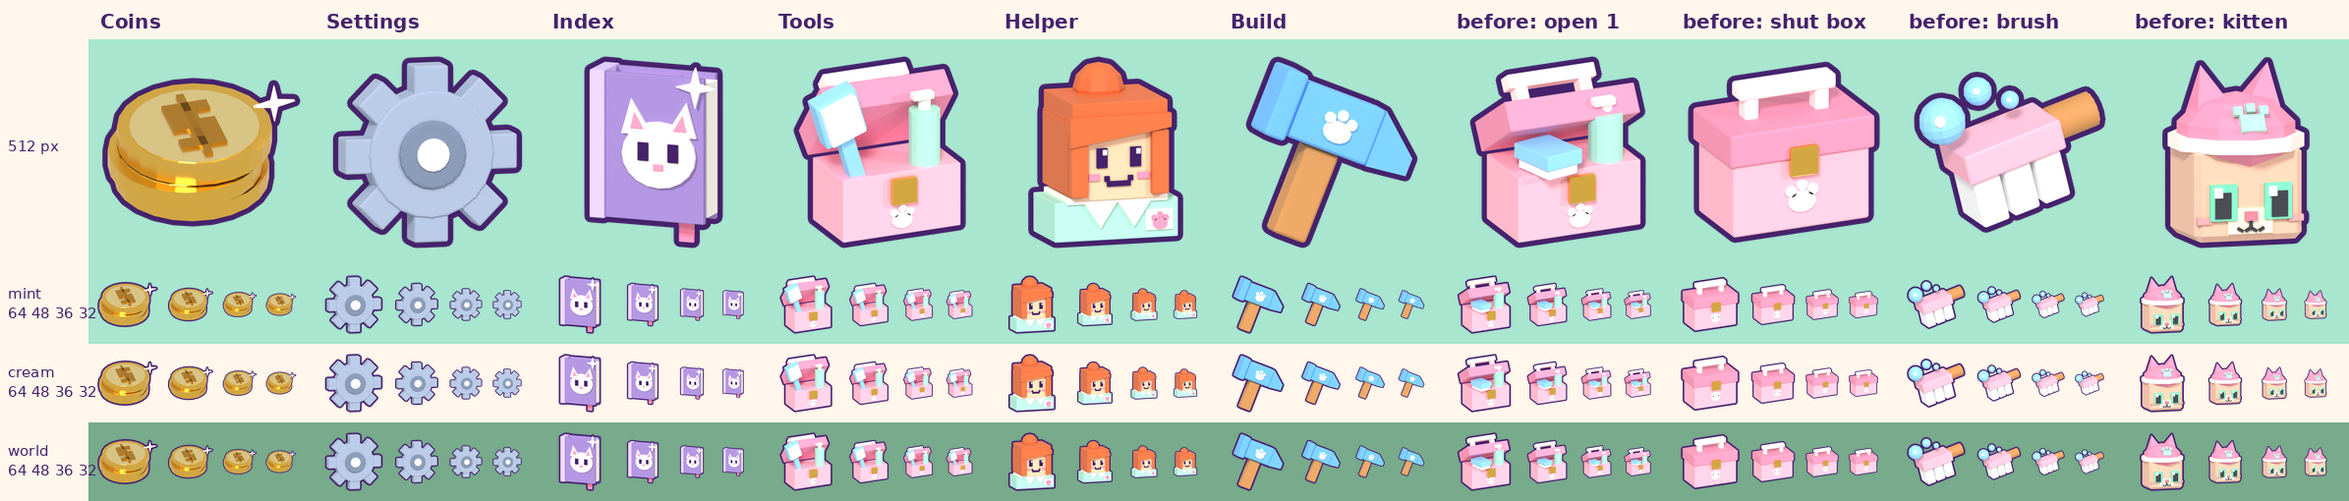
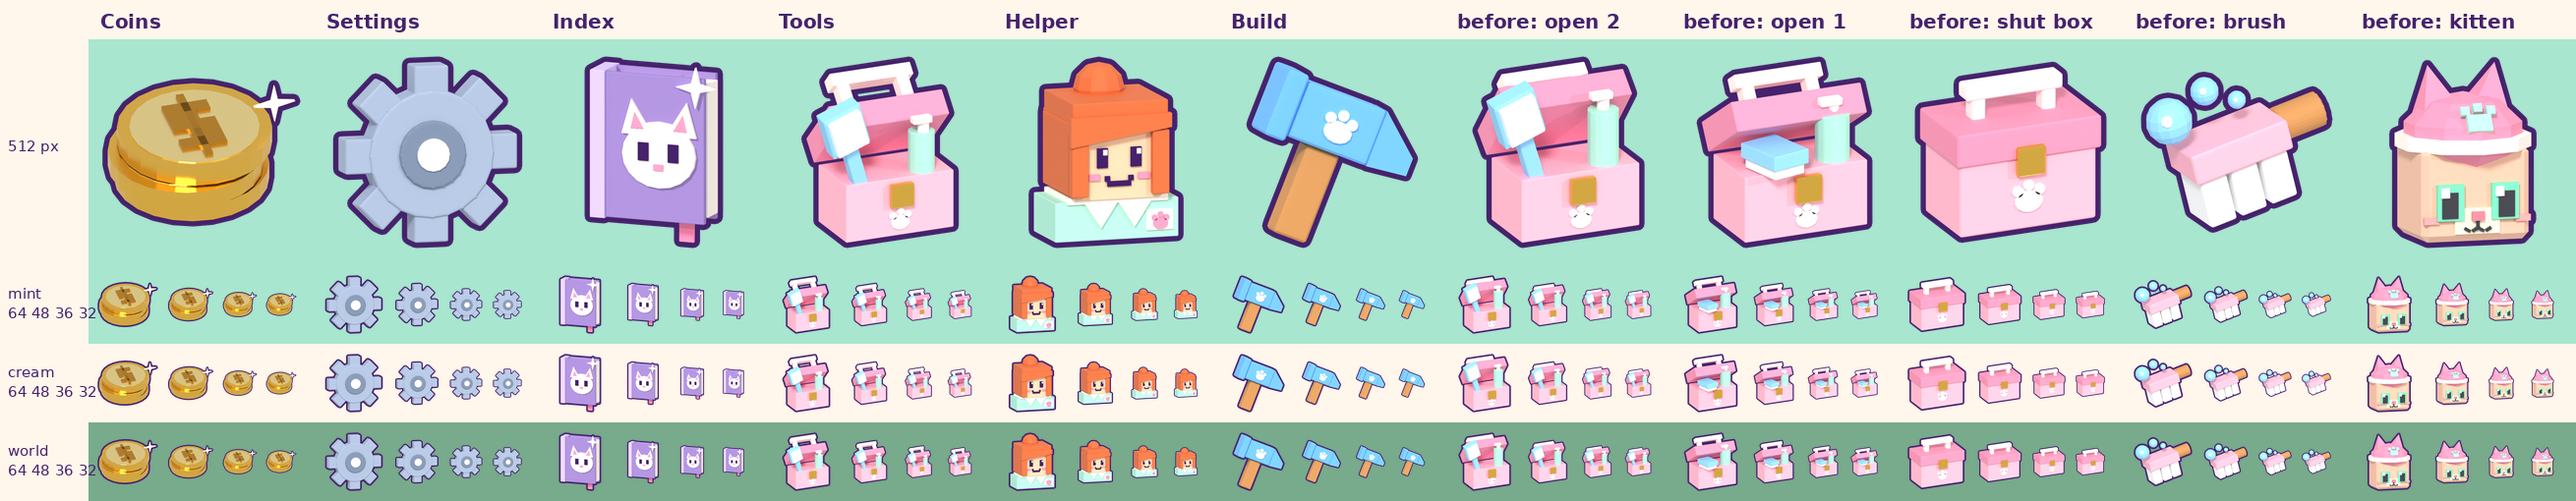
HUD Tools picture: bring the carry handle back above the open lid
Review-QA on #248: losing the white carry handle cost more than the
standing brush gained, because the handle is what says toolbox. The lid
now opens 44 degrees and the handle is taller and nearer the lid's front,
so it shows above the lid with the brush still standing at the left.

Claude-Session: https://claude.ai/code/session_01DW2up3E6M21fYJtCcCtEdr

diff --git a/assets/clean-a-cat/blender/hud_icons.py b/assets/clean-a-cat/blender/hud_icons.py
@@ -136,24 +136,25 @@ def tools(mat):
     a scrub brush with soap bubbles; the owner: "the bubbles on the back of brush makes no sense ... a toolbox would
     be better". Shut, the toolbox could pass for a lunchbox at 48 px (Review-QA, #234), so #242 opened it. On a phone
     the button is about 36 pt, where a brush lying inside the box blurred into it, so #247 stood the brush up to
-    break the outline.) Nothing may poke through the lid: it opens 50 degrees, so its front edge is behind the tools."""
+    break the outline, and made the carry handle tall so it still shows above the lid: that handle is what says
+    "toolbox".) Nothing may poke through the lid: it opens 44 degrees, and the tools stand in front of its edge."""
     b = Builder()
     w, d = 2.4, 1.4
     b.box((0, 0, 0.62), (w, d, 1.24), "spa_bubblegum")                                   # the box
-    up = Matrix.Rotation(math.radians(-50), 3, "X")                                      # the lid, hinged at the back
+    up = Matrix.Rotation(math.radians(-44), 3, "X")                                      # the lid, hinged at the back
     hinge = Vector((0, d / 2 + 0.07, 1.26))
 
     def lid(c, size, swatch):
         b.box(tuple(hinge + up @ (Vector(c) - hinge)), size, swatch, rot=up)
 
     lid((0, 0, 1.54), (w + 0.14, d + 0.14, 0.56), "nose_bubblegum")
-    for sx in (-1, 1):                                                                   # the handle, on the lid
-        lid((sx * 0.62, 0, 2.0), (0.24, 0.3, 0.44), "spa_cream")
-    lid((0, 0, 2.28), (1.7, 0.36, 0.26), "spa_cream")
+    for sx in (-1, 1):                                                                   # the carry handle: tall
+        lid((sx * 0.66, -0.3, 2.1), (0.26, 0.32, 0.64), "spa_cream")                     # and near the lid's front, so
+    lid((0, -0.3, 2.5), (1.8, 0.38, 0.28), "spa_cream")                                  # it shows above the open lid
     b.box((0, -d / 2 - 0.1, 0.9), (0.5, 0.14, 0.5), "gold_mid")                          # the latch
     _paw(b, 0, -d / 2 - 0.02, 0.36, 0.17, "foam", rot=Matrix.Rotation(math.radians(90), 3, "X"), depth=0.05)
-    lean = Matrix.Rotation(math.radians(-20), 3, "Y") @ Matrix.Rotation(math.radians(10), 3, "X")
-    foot = Vector((-0.72, -0.4, 0.9))                                                    # a scrub brush standing at
+    lean = Matrix.Rotation(math.radians(-20), 3, "Y") @ Matrix.Rotation(math.radians(12), 3, "X")
+    foot = Vector((-0.72, -0.45, 0.9))                                                    # a scrub brush standing at
 
     def brush(c, size, swatch):                                                          # the left end, leaning out
         b.box(tuple(foot + lean @ Vector(c)), size, swatch, rot=lean)
@@ -161,9 +162,9 @@ def tools(mat):
     brush((0, 0, 0.7), (0.3, 0.26, 1.4), "spa_sky")                                      # its handle,
     brush((0, 0, 1.8), (0.86, 0.34, 1.0), "spa_sky")                                     # its back
     brush((0, -0.22, 1.8), (0.72, 0.2, 0.84), "foam")                                    # and its bristles
-    b.cyl((0.6, -0.38, 1.75), 0.3, 1.1, "spa_mint", segments=14)                         # a soap bottle and its pump
-    b.cyl((0.6, -0.38, 2.42), 0.12, 0.26, "spa_cream", segments=12)
-    b.box((0.52, -0.46, 2.6), (0.42, 0.2, 0.14), "spa_cream")
+    b.cyl((0.6, -0.42, 1.65), 0.28, 0.9, "spa_mint", segments=14)                        # a soap bottle and its pump
+    b.cyl((0.6, -0.52, 2.22), 0.12, 0.26, "spa_cream", segments=12)
+    b.box((0.52, -0.6, 2.4), (0.42, 0.2, 0.14), "spa_cream")
     return _fin(b, "Tools", mat)
 
 

diff --git a/docs/art/style-guide.md b/docs/art/style-guide.md
@@ -259,7 +259,7 @@ Six pictures for the HUD's buttons, drawn apart from the game models because a b
 - `hud_icons.py <out folder> [--only Index,Tools]` (Blender's Python) writes five of them as `CleanACat_Icon_Hud_<Name>.png`: 512 px, see-through, with a 13 px outline in `#45226B`, the ink the ui-designer asked for on these (the `_ink` model icons above use `#3B2D45`; one of the two has to win before any upload). The camera, the two lights and the outline pass are ported from the library's `icons.py`; the colours are ours.
 - One bold object per picture that can be named at 48 px, built fat with rounded edges, tilted a little and filling the square about as much as the gear does. No small parts.
 - `Coins` is not rendered. The owner chose his library's own coin picture (`CatCafe_Icon_Coins.png`: a gold stack with a $) over the paw coin first drafted here, whose paw was done badly, then asked for it to be re-outlined to match the set. `hud_coin.py <library coin png> <out png>` (plain Python with Pillow and numpy) does only that: the library's brown 10 px outline becomes the `#45226B` ink at 13 px and the coin inside it is not touched. The generator has no coin, so a rebuild cannot bring the paw coin back.
-- `Settings`: a gear with eight teeth in soft blue grey. `Index`: a purple book with a cream cat's face on the cover and a pink bookmark. `Tools`: a pink toolbox with a deeper pink lid thrown open, a sky blue scrub brush standing in it with its white bristles to the front, a mint soap bottle with a pump beside it, a gold latch and a white paw on the front. Shut, it could pass for a lunchbox at 48 px (Review-QA, #234), so #242 opened it; a phone draws the button at about 36 pt, where a brush lying inside the box blurred into it, so #247 stood the brush up to break the outline. The rule this gave: check HUD pictures at 36 px, and let the thing that names the button break the silhouette. The first draft was the game's scrub brush with soap bubbles; the owner on 2026-11-24: the bubbles "makes no sense" and "a toolbox would be better". `Helper`: a member of the human staff, head and shoulders in the spa uniform (see `staff.py` below). The first draft was a helper kitten's head; the owner on 2026-11-24 leaned to human staff for helpers and the kitten staying as the mascot. `Build`: a blue hammer with a wooden handle and a white paw.
+- `Settings`: a gear with eight teeth in soft blue grey. `Index`: a purple book with a cream cat's face on the cover and a pink bookmark. `Tools`: a pink toolbox with a deeper pink lid open and a tall cream carry handle on it, a sky blue scrub brush standing in it with its white bristles to the front, a mint soap bottle with a pump beside it, a gold latch and a white paw on the front. Shut, it could pass for a lunchbox at 48 px (Review-QA, #234), so #242 opened it; a phone draws the button at about 36 pt, where a brush lying inside the box blurred into it, so #247 stood the brush up to break the outline and made the carry handle tall enough to show above the open lid (without the handle it stops being a toolbox). The rules this gave: check HUD pictures at 36 px, let the thing that names the button break the silhouette, and never trade away the one cue that names the object. The first draft was the game's scrub brush with soap bubbles; the owner on 2026-11-24: the bubbles "makes no sense" and "a toolbox would be better". `Helper`: a member of the human staff, head and shoulders in the spa uniform (see `staff.py` below). The first draft was a helper kitten's head; the owner on 2026-11-24 leaned to human staff for helpers and the kitten staying as the mascot. `Build`: a blue hammer with a wooden handle and a white paw.
 - The human staff are a draft for pictures only, in `staff.py`: no game model yet. One uniform says "works here" beside customers, who are the same blocky people in hats, scarves or berets (one in a mint tee): a mint smock (`spa_mint`) with short sleeves and cream cuffs, a cream collar with two points, a cream name badge with a pink paw, and never a hat. Two looks so far: Jo (`skin_light`, a ginger bob with a swept fringe and a bun) and Sam (`skin_deep`, short black curls). `ui_renders.py` renders `portrait_Staff_<Name>.png` on the stand-in figure, both at one scale with the shoulders running off the sides so the head is big in a round frame. The `Helper` button is a chunky head of the first look in the same colours, so button and portraits match. If staff become game models, their `HumanoidDescription` colours come from this table.
 - Nothing is uploaded by this script. The ui-designer keeps the six in `assets/clean-a-cat/ui/` and uploads are group owned.
 

diff --git a/docs/concepts/clean-a-cat/README.md b/docs/concepts/clean-a-cat/README.md
@@ -50,7 +50,7 @@ HUD source page: `assets/clean-a-cat/ui/hud.html`. Plans: issues #5 (first sessi
 - `2026-11-24-spa-room.png`: the check sheet for the spa room pass (#214). Before and after from the play camera, the entrance, the back wall, the back right corner, the street and above, and the play camera at phone size (844 x 390). The floor's check now shows (pale sky tiles with a bubblegum border), the mint band has a white cap rail, and the walls carry a gold mirror, a tool board, three framed cats and a towel rail. 161 parts before, 220 after. 2026-11-24.
 - `2026-11-24-stations-pass.png`: the check sheet for the stations pass (#193). The brush table, its upgrade, the dryer and the pawdicure before and after: each now stands on a solid body (a cabinet, a pouf on a plinth) with brass or gold trim, so it holds up beside the two new baths. Three quarter, play camera and back views, all six stations in a row before and after, the brush table and dryer at 667 px, and the old and new icons at 112, 64 and 32 px on mint. 2026-11-24.
 - `2026-11-24-icon-blends.png`: the two HUD icon blends side by side on the phone HUD (844 x 390) with the six icons at 64 and 48 px: A, ours mixed with Phosphor two tone (flat), and B, ours mixed with Derek's library (3D renders). Derek picked B for now (#185). 2026-11-24.
-- `2026-11-24-hud-icons.png`: the six HUD button pictures (#185) in the blend the owner picked "for now", our look mixed with his library icons: coins (the library's own coin with its outline redrawn in the HUD ink, his call), settings, Cat Index, tools (a toolbox since his note on the brush, thrown open with a standing brush and a bottle since #242 and #247), helper (a member of the human staff since his lean to human helpers) and build at 512 px, then at 64, 48, 36 (the phone's button size) and 32 px on mint, cream and a world green, beside the first open toolbox, the shut toolbox, the brush and the kitten head they replaced. Nothing is uploaded. 2026-11-24.
+- `2026-11-24-hud-icons.png`: the six HUD button pictures (#185) in the blend the owner picked "for now", our look mixed with his library icons: coins (the library's own coin with its outline redrawn in the HUD ink, his call), settings, Cat Index, tools (a toolbox since his note on the brush, thrown open with a standing brush and a bottle since #242 and #247), helper (a member of the human staff since his lean to human helpers) and build at 512 px, then at 64, 48, 36 (the phone's button size) and 32 px on mint, cream and a world green, beside the two earlier open toolboxes, the shut toolbox, the brush and the kitten head they replaced. Nothing is uploaded. 2026-11-24.
 - `2026-11-24-staff.png`: the human staff draft: Jo and Sam in the spa uniform (mint smock, cream collar and cuffs, paw name badge, no hat) as portraits, the Helper button made from Jo, a customer for contrast and Suds the mascot kitten, at 310 px and at 96, 64 and 48 px on mint, cream and a world green. Pictures only, no game model yet. 2026-11-24.
 - `2026-11-24-ui-renders.png`: the check sheet for the pictures made from the models for the screens (#127): 66 portraits and icons at 128 px, alone on cream and with the ink outline on mint, then with the outline at 64 px and 32 px. The pictures themselves are in the project files under `Model-Agent/ui-renders/`. 2026-11-24.
 - `ui-2026-11-24/`: draft screens for the parts very likely needed whichever loop is picked (HUD, wash steps, recap, who's next queue, Cat Index, new cat reveal, cat chances, tools, helpers, builder, settings, toasts and praise, tutorial steps, while you were away). Each at phone (844 x 390) and desktop (1280 x 720). Source pages and the screen check are in `assets/clean-a-cat/ui/screens/`; every screen passes the check at seven screen sizes. Stand-in art, invented numbers and names. 2026-11-24.
